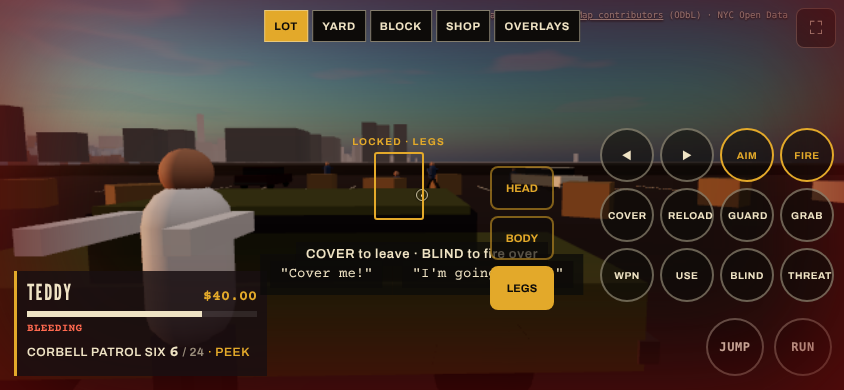
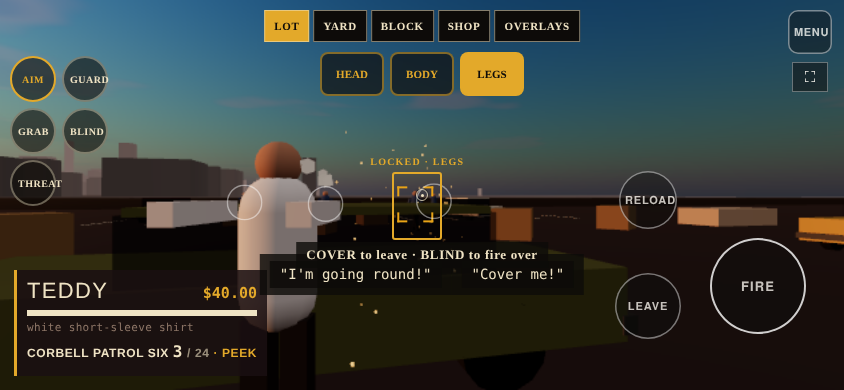
Touch: no duplicate cover offer on the context button in combat (TouchLayout has its own); test-scene extras moved clear of the shipping layout; touch frame re-recorded
Claude-Session: https://claude.ai/code/session_01H4ZSJ7ih6pW16fwcDhuHtD

diff --git a/src/gameplay/scene/Hud.ts b/src/gameplay/scene/Hud.ts
@@ -52,11 +52,11 @@ const CSS = `
 .gp-nav .gp-btn.on { background: #e3a92a; color: #0d0b09; }
 .gp-prompt { position: absolute; left: 50%; top: 62%; transform: translateX(-50%); font: 600 13px Archivo; letter-spacing: .05em; background: #0d0b09cc; padding: 5px 10px; display: none; }
 .gp-vig { position: absolute; inset: 0; pointer-events: none; box-shadow: inset 0 0 0 0 #6a0a0a; transition: box-shadow .25s; }
-.gp-touch { position: absolute; right: calc(10px + env(safe-area-inset-right)); bottom: calc(88px + env(safe-area-inset-bottom)); /* above the engine's JUMP / RUN */ display: grid; grid-template-columns: repeat(4, 54px); gap: 6px; pointer-events: auto; z-index: 9; }
-.gp-touch button { width: 54px; height: 54px; border-radius: 50%; border: 2px solid #efe3c466; background: #0d0b0999; color: #efe3c4; font: 700 10px Archivo; letter-spacing: .05em; touch-action: none; }
+.gp-touch { position: absolute; left: calc(10px + env(safe-area-inset-left)); top: calc(56px + env(safe-area-inset-top)); /* test-only extras: top left, clear of the shipping TouchLayout (right thumb) and the status panel */ display: grid; grid-template-columns: repeat(2, 46px); gap: 6px; pointer-events: auto; z-index: 9; }
+.gp-touch button { width: 46px; height: 46px; border-radius: 50%; border: 2px solid #efe3c466; background: #0d0b0999; color: #efe3c4; font: 700 10px Archivo; letter-spacing: .05em; touch-action: none; }
 .gp-touch button.big { border-color: #e3a92a; color: #e3a92a; }
 .gp-touch button.on { background: #e3a92a55; }
-.gp-limbs { position: absolute; right: calc(290px + env(safe-area-inset-right)); bottom: calc(80px + env(safe-area-inset-bottom)); display: none; flex-direction: column; gap: 6px; pointer-events: auto; z-index: 9; }
+.gp-limbs { position: absolute; left: 50%; transform: translateX(-50%); top: calc(52px + env(safe-area-inset-top)); display: none; flex-direction: row; gap: 6px; pointer-events: auto; z-index: 9; }
 .gp-limbs button { width: 64px; height: 44px; border-radius: 8px; border: 2px solid #e3a92a88; background: #0d0b09aa; color: #e3a92a; font: 700 11px Archivo; }
 .gp-limbs button.on { background: #e3a92a; color: #0d0b09; }
 `;

diff --git a/src/gameplay/index.ts b/src/gameplay/index.ts
@@ -834,8 +834,10 @@ export class Gameplay {
     const d = this.nearestDoor(p[0], p[2]);
     if (d) return { kind: 'door', label: d.locked ? (this.doorOpenNow(d) ? 'Knock' : 'Locked') : 'Go in', target: d.id };
     { const v = this.vendorNear(p[0], p[2]); if (v && this.pc.carrying === 'none' && this.vendors.open(v, this.economy.nowH())) return v.kind === 'shoeshine' ? { kind: 'shine', label: `Shine ${this.shinePrice()}¢`, target: v.id } : v.kind === 'monte' ? { kind: 'monte', label: 'Find the lady', target: v.id } : { kind: 'buy', label: 'Buy', target: v.id }; }
-    if (this.pc.cover) return { kind: 'leaveCover', label: 'Leave cover' };
-    if (this.cover.near(p[0], p[2], null, 2)) return { kind: 'cover', label: 'Take cover' };
+    // touch in combat has its own Cover/Leave/Roll button (TouchLayout slot a): don't offer the same thing twice
+    const coverButton = this.pc.device === 'touch' && this.touchMode() === 'combat';
+    if (this.pc.cover && !coverButton) return { kind: 'leaveCover', label: 'Leave cover' };
+    if (!coverButton && this.cover.near(p[0], p[2], null, 2)) return { kind: 'cover', label: 'Take cover' };
     if (t) return { kind: 'talk', label: 'Talk', target: t.id };
     return null;
   }

diff --git a/src/gameplay/tests/touch.test.ts b/src/gameplay/tests/touch.test.ts
@@ -187,3 +187,18 @@ test('UI TouchHost adapter: Gameplay plugs straight into gameplayTouch ({x, z} d
   t.configure!({ fireMode: 'tap', aimAssist: 'strong', gyro: 'aim', steerAssist: true, steerAssistStrength: 0.5, autoAccelerate: false });
   assert.equal(r.g.pc.fireMode, 'tap'); assert.equal(r.g.pc.assist, 'off', 'gyro aim turns assist off');
 });
+
+test('touch combat: cover lives on its own button, so the context button does not offer it twice', () => {
+  const r = touchRig();
+  r.g.addCar('car', 0, 0, -2.5, Math.PI / 2); r.pos[2] = -0.6;
+  r.g.equip('weapon.service');
+  assert.equal(r.g.touchMode(), 'combat');
+  assert.notEqual(r.g.contextAction()?.kind, 'cover');
+  assert.equal(r.g.coverLabel(), 'Cover');
+  r.g.coverOrRoll([0, -1]); assert.ok(r.g.pc.cover);
+  assert.notEqual(r.g.contextAction()?.kind, 'leaveCover');
+  assert.equal(r.g.coverLabel(), 'Leave');
+  // a mouse player still gets it on the context key
+  r.g.setContext({ device: 'mouse' });
+  assert.equal(r.g.contextAction()?.kind, 'leaveCover');
+});
